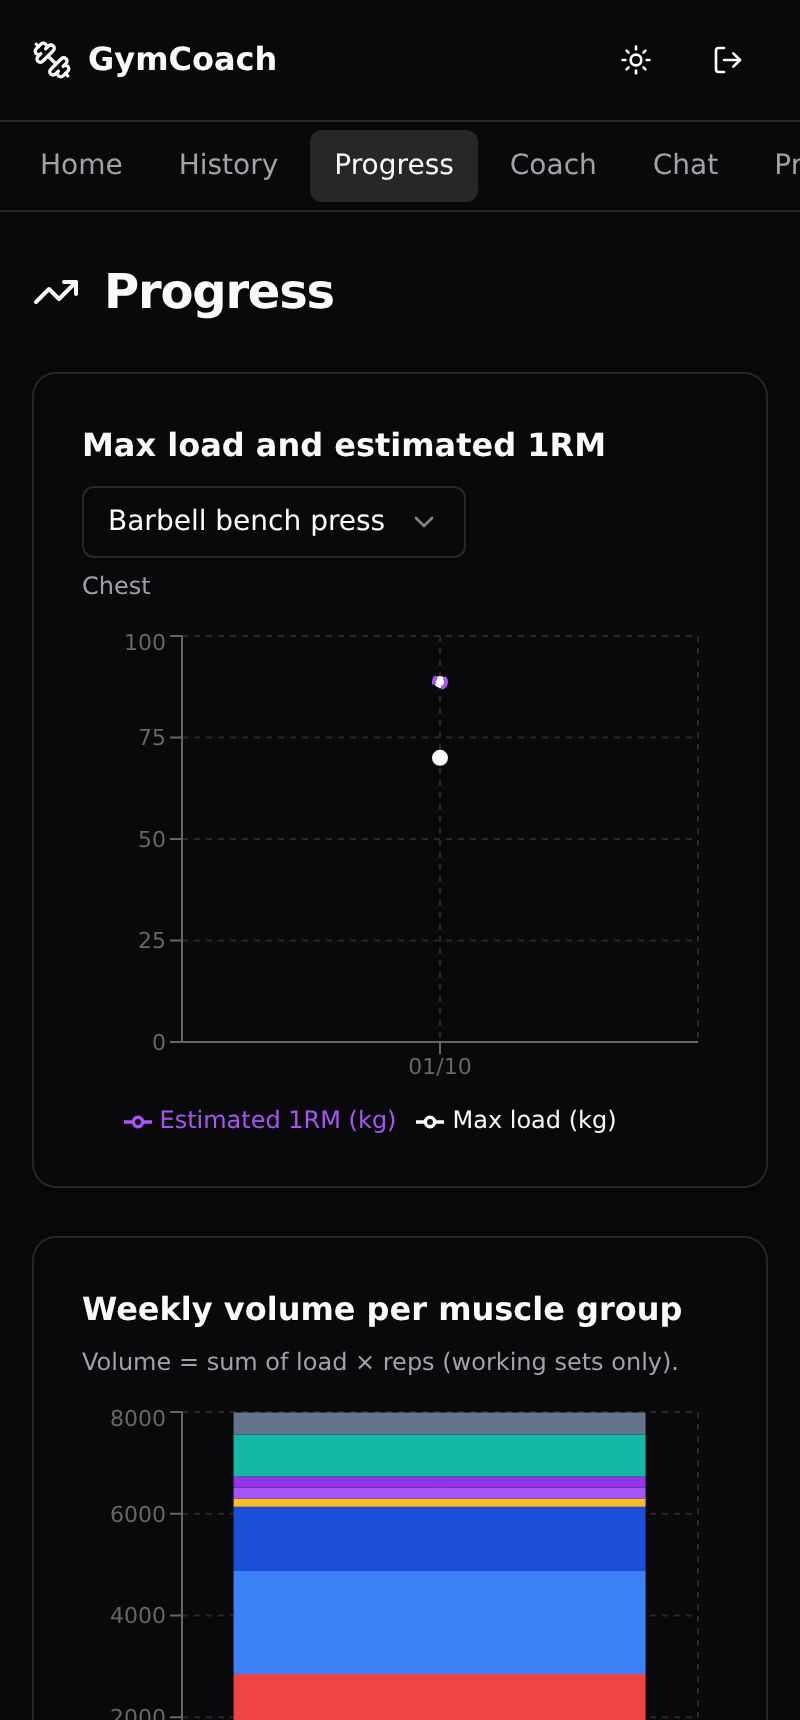
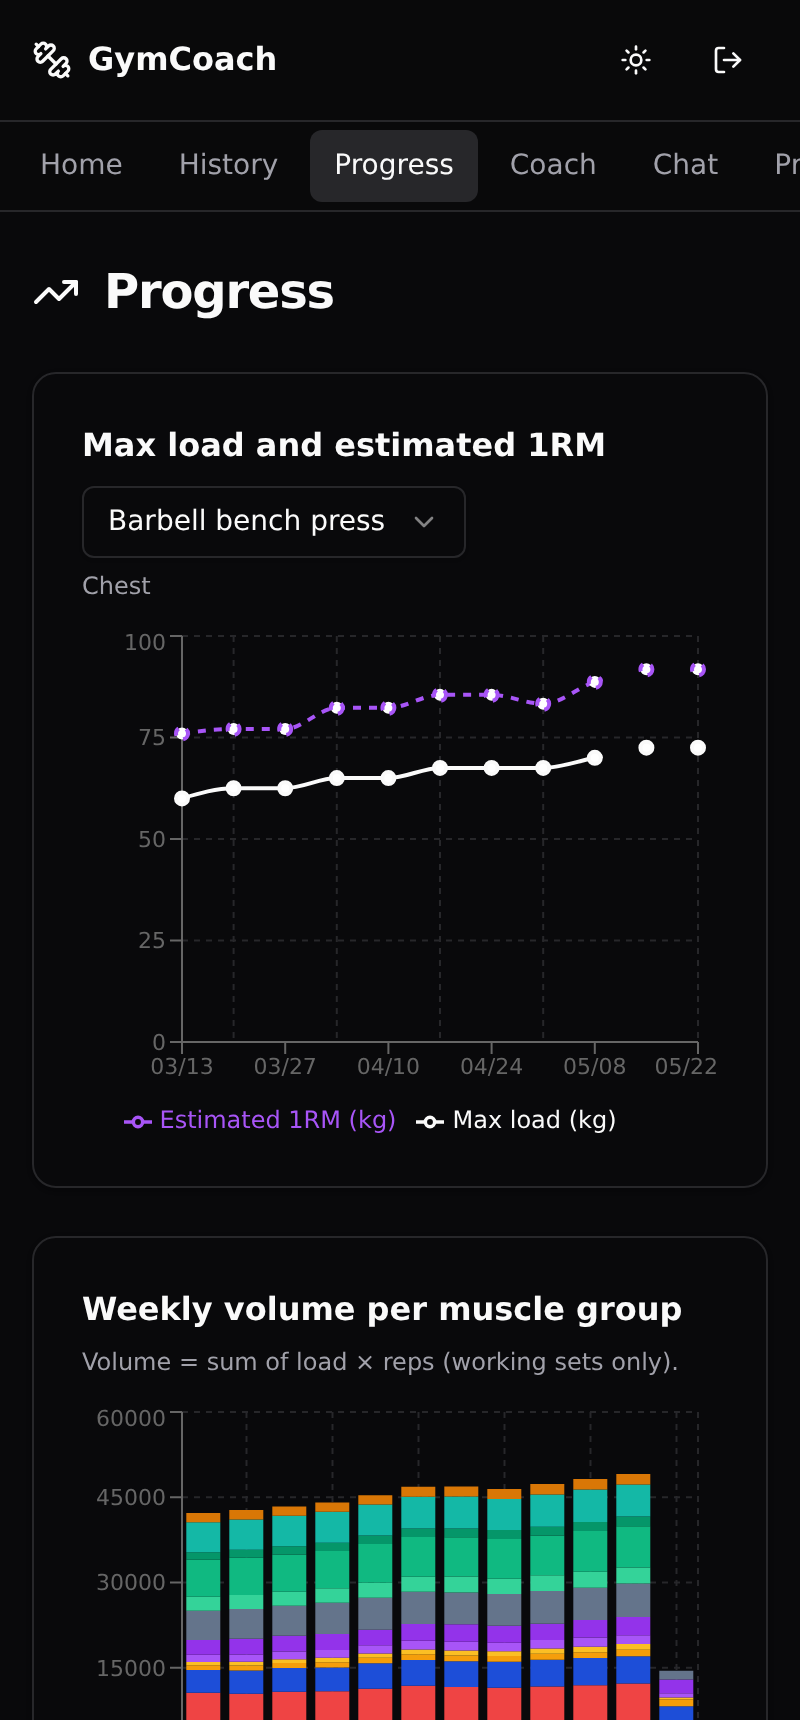
docs: 12-week demo data, a session GIF, and richer progress screenshots
- scripts/seed-demo-history.ts (npm run seed:demo): generates ~12 weeks
  of realistic, deterministic sessions for the demo account so the
  progress and weekly-volume charts look populated
- scripts/record-session.mjs: drives a logging flow with Playwright and
  encodes a GIF with gifenc + pngjs (no ffmpeg needed)
- README: feature the session GIF in the hero and refresh the screenshots
  (progress now shows a 12-week uptrend)

diff --git a/scripts/seed-demo-history.ts b/scripts/seed-demo-history.ts
@@ -1,0 +1,194 @@
+/**
+ * Demo history generator (for screenshots / the README, not for real users).
+ *
+ * Generates ~12 weeks of realistic training sessions for the demo account so
+ * the progress charts and weekly-volume views look populated. Deterministic
+ * (seeded RNG) so the charts are reproducible.
+ *
+ * Prerequisite: run `npm run db:seed` first (creates the demo user, the
+ * exercise catalog and the active program). Then:
+ *   DATABASE_URL=... npm run seed:demo
+ *
+ * It replaces the demo user's existing sessions to stay reproducible.
+ */
+import { PrismaClient, MuscleGroup, ExerciseCategory } from '@prisma/client';
+
+const prisma = new PrismaClient();
+const WEEKS = 12;
+
+// Deterministic RNG so the generated charts are stable across runs.
+function mulberry32(seed: number): () => number {
+  let a = seed;
+  return () => {
+    a |= 0;
+    a = (a + 0x6d2b79f5) | 0;
+    let t = Math.imul(a ^ (a >>> 15), 1 | a);
+    t = (t + Math.imul(t ^ (t >>> 7), 61 | t)) ^ t;
+    return ((t ^ (t >>> 14)) >>> 0) / 4294967296;
+  };
+}
+const rng = mulberry32(1337);
+
+function round(value: number, step: number): number {
+  return Math.round(value / step) * step;
+}
+
+// Rough starting working weight (kg) by muscle group + category. For
+// bodyweight exercises this is the added load (starts at 0).
+function baseWeight(ex: {
+  muscleGroup: MuscleGroup;
+  category: ExerciseCategory;
+  usesBodyweight: boolean;
+}): number {
+  if (ex.usesBodyweight) return 0;
+  const compound: Partial<Record<MuscleGroup, number>> = {
+    CHEST: 60,
+    BACK_WIDTH: 55,
+    BACK_THICKNESS: 60,
+    SHOULDERS_FRONT: 30,
+    QUADS: 70,
+    HAMSTRINGS: 50,
+    GLUTES: 70,
+  };
+  const isolation: Partial<Record<MuscleGroup, number>> = {
+    CHEST: 55,
+    SHOULDERS_LATERAL: 7,
+    SHOULDERS_REAR: 40,
+    BICEPS: 22,
+    TRICEPS: 20,
+    QUADS: 55,
+    HAMSTRINGS: 45,
+    CALVES: 55,
+    ABS: 32,
+  };
+  const table = ex.category === ExerciseCategory.COMPOUND ? compound : isolation;
+  return table[ex.muscleGroup] ?? (ex.category === ExerciseCategory.COMPOUND ? 50 : 25);
+}
+
+// Working load for a given week, ramping up with a small deload around week 7.
+function workingLoad(
+  base: number,
+  weeksElapsed: number,
+  ex: { category: ExerciseCategory; usesBodyweight: boolean },
+): number {
+  const stepKg = ex.usesBodyweight
+    ? 2.5
+    : ex.category === ExerciseCategory.COMPOUND
+      ? 2.5
+      : 1;
+  // ~one increment every 1.6 weeks, with noise.
+  let increments = Math.floor(weeksElapsed / 1.6 + rng() * 0.6);
+  if (weeksElapsed >= 7) increments -= 1; // light deload week 7 onward bump
+  const raw = base + Math.max(0, increments) * stepKg;
+  const step = ex.usesBodyweight || ex.category === ExerciseCategory.ISOLATION ? 1 : 2.5;
+  return round(Math.max(ex.usesBodyweight ? 0 : step, raw), step);
+}
+
+function repsFor(setNumber: number, min: number, max: number): number {
+  // Slightly fewer reps on later sets (fatigue), within the target range.
+  const top = max - Math.floor(rng() * 1.5);
+  const reps = top - (setNumber - 1);
+  return Math.max(min, Math.min(max, reps));
+}
+
+function rirFor(target: number, setNumber: number): number {
+  const r = target - (setNumber >= 3 ? 1 : 0) + (rng() < 0.3 ? 1 : 0);
+  return Math.max(0, Math.min(5, r));
+}
+
+function sessionDate(weeksAgo: number, dayOfWeek: number): Date {
+  const d = new Date();
+  d.setHours(18, 30, 0, 0);
+  const dow = d.getDay() === 0 ? 7 : d.getDay(); // 1=Mon .. 7=Sun
+  d.setDate(d.getDate() - (dow - 1)); // Monday of the current week
+  d.setDate(d.getDate() - weeksAgo * 7 + (dayOfWeek - 1));
+  return d;
+}
+
+async function main() {
+  const email = process.env.USER_EMAIL || '[email redacted]';
+  const user = await prisma.user.findUnique({ where: { email } });
+  if (!user) throw new Error('Demo user not found. Run `npm run db:seed` first.');
+
+  const program = await prisma.program.findFirst({
+    where: { userId: user.id, isActive: true },
+    include: {
+      workouts: {
+        orderBy: { order: 'asc' },
+        include: {
+          exercises: {
+            orderBy: { order: 'asc' },
+            include: { exercise: true },
+          },
+        },
+      },
+    },
+  });
+  if (!program) throw new Error('No active program. Run `npm run db:seed` first.');
+
+  // Clean slate for reproducibility (demo user only).
+  await prisma.session.deleteMany({ where: { userId: user.id } });
+
+  const now = new Date();
+  let sessionCount = 0;
+  let setCount = 0;
+
+  for (let w = WEEKS - 1; w >= 0; w--) {
+    const weeksElapsed = WEEKS - 1 - w;
+    for (const workout of program.workouts) {
+      const day = workout.dayOfWeek ?? workout.order;
+      const startedAt = sessionDate(w, day);
+      if (startedAt > now) continue; // skip future days in the current week
+
+      const session = await prisma.session.create({
+        data: {
+          userId: user.id,
+          programId: program.id,
+          workoutId: workout.id,
+          startedAt,
+          finishedAt: new Date(startedAt.getTime() + 75 * 60 * 1000),
+        },
+      });
+      sessionCount += 1;
+
+      const sets: {
+        sessionId: string;
+        exerciseId: string;
+        setNumber: number;
+        weight: number;
+        reps: number;
+        rir: number;
+        completedAt: Date;
+      }[] = [];
+
+      for (const pe of workout.exercises) {
+        const ex = pe.exercise;
+        const load = workingLoad(baseWeight(ex), weeksElapsed, ex);
+        for (let s = 1; s <= pe.targetSets; s++) {
+          sets.push({
+            sessionId: session.id,
+            exerciseId: ex.id,
+            setNumber: s,
+            weight: load,
+            reps: repsFor(s, pe.targetRepsMin, pe.targetRepsMax),
+            rir: rirFor(pe.targetRIR, s),
+            completedAt: new Date(startedAt.getTime() + (pe.order * 5 + s) * 60 * 1000),
+          });
+        }
+      }
+      await prisma.set.createMany({ data: sets });
+      setCount += sets.length;
+    }
+  }
+
+  console.log(`Demo history: ${sessionCount} sessions, ${setCount} sets over ${WEEKS} weeks.`);
+}
+
+main()
+  .catch((e) => {
+    console.error('seed:demo error', e);
+    process.exit(1);
+  })
+  .finally(async () => {
+    await prisma.$disconnect();
+  });

diff --git a/README.md b/README.md
@@ -8,6 +8,10 @@ Open source, self hosted hypertrophy training tracker with a built in AI coach. 
 [![Built with Next.js](https://img.shields.io/badge/Next.js-14-black.svg)](https://nextjs.org)
 
 <p align="center">
+  <img src="docs/screenshots/session.gif" width="280" alt="Logging a session in GymCoach" />
+</p>
+
+<p align="center">
   <img src="docs/screenshots/home.png" width="23%" alt="Dashboard" />
   <img src="docs/screenshots/progress.png" width="23%" alt="Progress charts" />
   <img src="docs/screenshots/program-generator.png" width="23%" alt="AI program generator" />